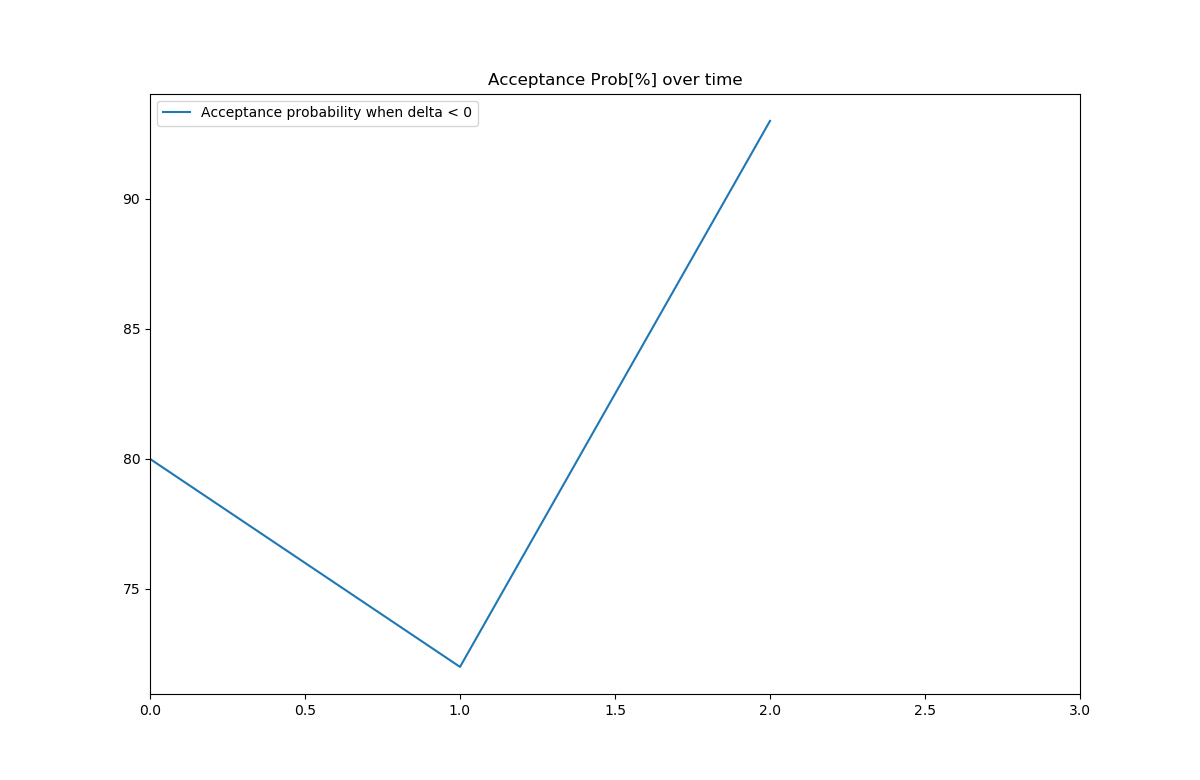
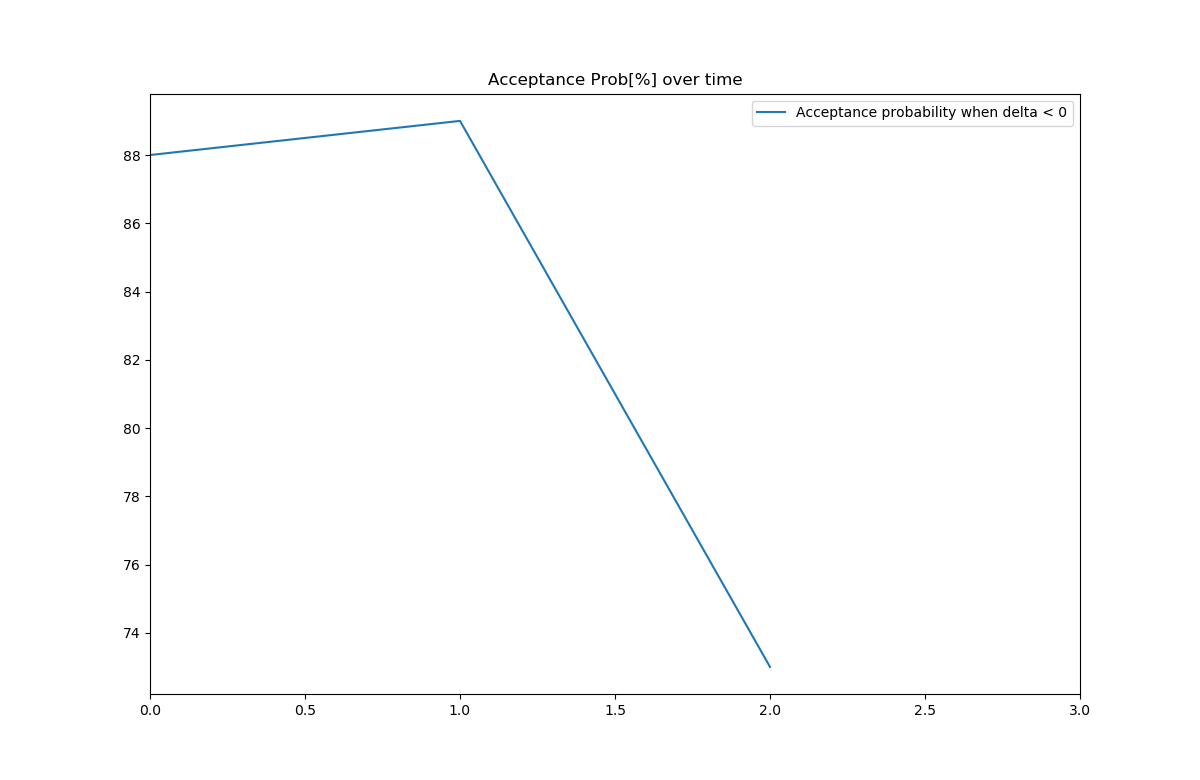
todo: retarget shader

diff --git a/Falcor-3.2.1/Bachelor/RayTracer/PathTracer/PathTracer.cpp b/Falcor-3.2.1/Bachelor/RayTracer/PathTracer/PathTracer.cpp
@@ -84,8 +84,6 @@ void PathTracer::toggleCameraPathState()
 void PathTracer::onLoad(SampleCallbacks* pCallbacks, RenderContext* pRenderContext)
 {
     mpGraph = RenderGraph::create("Path Tracer");
-    //for retarget seeds before rendering frame!
-    mpGraph->addPass(Retargeting::create(), "Retargeting");
 
     mpGraph->addPass(GBufferRaster::create(), "GBuffer");
     auto pGIPass = GGXGlobalIllumination::create();
@@ -93,14 +91,15 @@ void PathTracer::onLoad(SampleCallbacks* pCallbacks, RenderContext* pRenderConte
 
     //make improvements by sorting frames after rendering
     mpGraph->addPass(Sorting::create(), "Sorting");
+    //for retarget seeds before rendering frame!
+    mpGraph->addPass(Retargeting::create(), "Retargeting");
 
-    mpGraph->addEdge("GBuffer", "Retargeting");
-    mpGraph->addEdge("Retargeting", "GlobalIllumination");
+    mpGraph->addEdge("GBuffer", "GlobalIllumination");
     //improvements in sorting happens after rendering frame
     mpGraph->addEdge("GlobalIllumination", "Sorting");
 
     //bevor render now retarget seeds to accumulate improvements
-    mpGraph->addEdge("Retargeting.output_seed", "GlobalIllumination.input_seed");
+    //mpGraph->addEdge("Sorting.output_seed", "GlobalIllumination.input_seed");
 
     mpGraph->addEdge("GBuffer.posW", "GlobalIllumination.posW");
     mpGraph->addEdge("GBuffer.normW", "GlobalIllumination.normW");
@@ -111,7 +110,7 @@ void PathTracer::onLoad(SampleCallbacks* pCallbacks, RenderContext* pRenderConte
 
     //add edges for marking dependencies!!
 
-    //mpGraph->addEdge("Sorting","Retargeting");
+    mpGraph->addEdge("Sorting","Retargeting");
 
     //Edges for our temporal algorithm
 
@@ -121,10 +120,10 @@ void PathTracer::onLoad(SampleCallbacks* pCallbacks, RenderContext* pRenderConte
     mpGraph->addEdge("GlobalIllumination.output_seed","Sorting.input_seed");
 
     //edges for our retargeting pass
-    //mpGraph->addEdge("Sorting.seed_output","Retargeting.input_seed");
+    mpGraph->addEdge("Sorting.output_seed","Retargeting.input_seed");
 
     mpGraph->markOutput("GlobalIllumination.output");
-    mpGraph->markOutput("Sorting.output_seed");
+    mpGraph->markOutput("Retargeting.output_seed");
     //mpGraph->markOutput("Retargeting.output_seed");
 
     // Initialize the graph's record of what the swapchain size is, for texture creation
@@ -161,7 +160,7 @@ void PathTracer::onFrameRender(SampleCallbacks* pCallbacks, RenderContext* pRend
         this->trace_count = 0;
         Texture::SharedPtr seed_texture = createTextureFromFile("seeds_RGBA.png", false, false,Resource::BindFlags::ShaderResource | Resource::BindFlags::UnorderedAccess |
                                                                                                                                             Resource::BindFlags::RenderTarget);
-        mpGraph->setInput("Retargeting.input_seed", seed_texture);
+        mpGraph->setInput("GlobalIllumination.input_seed", seed_texture);
         //mpGraph->setInput("GlobalIllumination.seed_input", seed_texture);
         //just do nothing; we will load starting seed texture in globalillumination pass 
         hasrunonce = true;
@@ -171,7 +170,7 @@ void PathTracer::onFrameRender(SampleCallbacks* pCallbacks, RenderContext* pRend
         //enable this llop for saving the very first 10 screenshots!!!
         /**if (this->trace_count <= 10) {
             std::stringstream ss;
-            ss << "frame_t_bluenosie" << this->trace_count;
+            ss << "frame_t_bluenosie_with_retargeting" << this->trace_count;
             std::string filename = ss.str();
             pCallbacks->captureScreen(filename, "Screenshots");
             trace_count++;
@@ -181,8 +180,8 @@ void PathTracer::onFrameRender(SampleCallbacks* pCallbacks, RenderContext* pRend
         //Resource::SharedPtr retarget_seeds = mpGraph->getOutput("Retargeting.output_seed");
         //mpGraph->setInput("GlobalIllumination.seed_input", retarget_seeds);
 
-        Resource::SharedPtr retarget_seeds = mpGraph->getOutput("Sorting.output_seed");
-        mpGraph->setInput("Retargeting.input_seed", retarget_seeds);
+        Resource::SharedPtr retarget_seeds = mpGraph->getOutput("Retargeting.output_seed");
+        mpGraph->setInput("GlobalIllumination.input_seed", retarget_seeds);
 
     }
 
@@ -190,8 +189,8 @@ void PathTracer::onFrameRender(SampleCallbacks* pCallbacks, RenderContext* pRend
     {
         mpGraph->getScene()->update(pCallbacks->getCurrentTime(), &mCamController);
         mpGraph->execute(pRenderContext);
-        pRenderContext->blit(mpGraph->getOutput("GlobalIllumination.output")->getSRV(), pTargetFbo->getRenderTargetView(0));
-        //pRenderContext->blit(mpGraph->getOutput("Retargeting.output_seed")->getSRV(), pTargetFbo->getRenderTargetView(0));
+        //pRenderContext->blit(mpGraph->getOutput("GlobalIllumination.output")->getSRV(), pTargetFbo->getRenderTargetView(0));
+        pRenderContext->blit(mpGraph->getOutput("Retargeting.output_seed")->getSRV(), pTargetFbo->getRenderTargetView(0));
     }
 }
 

diff --git a/Falcor-3.2.1/Bachelor/RayTracer/PathTracer/RenderPasses/Retargeting.cpp b/Falcor-3.2.1/Bachelor/RayTracer/PathTracer/RenderPasses/Retargeting.cpp
@@ -58,10 +58,11 @@ void Retargeting::initialize(RenderContext * pContext, const RenderData * pRende
     mpComputeProgVars = ComputeVars::create(mpComputeProg->getReflector());
 
     //textures for retargeting
-
-    Texture::SharedPtr retarget = createTextureFromFile("permutation_texture_236413_swapsKirkpatrickCooldownSchedule.png", false, false, Resource::BindFlags::ShaderResource
+    //30
+    Texture::SharedPtr retarget = createTextureFromFile("permutation_texture_238866_swapsKirkpatrickCooldownSchedule.png", false, false, Resource::BindFlags::ShaderResource
                                                                                                                                                                                                                                             | /*Resource::BindFlags::UnorderedAccess|*/
-                                                                                                                                                                                                                                               Resource::BindFlags::RenderTarget);
+                                                                                                                                                                                                                                                   Resource::BindFlags::RenderTarget);
+    
     mpComputeProgVars->setTexture("retarget_texture", retarget);
 
     //info for the frame
@@ -95,7 +96,7 @@ void Retargeting::execute(RenderContext* pContext, const RenderData* pData) {
     mpComputeProgVars->getStructuredBuffer("data")[0]["tile_height"] = tile_height;
     mpComputeProgVars->getStructuredBuffer("data")[0]["frame_width"] = frame_width;
     mpComputeProgVars->getStructuredBuffer("data")[0]["frame_height"] = frame_height;
-    mpComputeProgVars->getStructuredBuffer("data")[0]["frame_count"] = frame_count;
+    mpComputeProgVars->getStructuredBuffer("data")[0]["frame_count"] = frame_count++;
     mpComputeProgVars->getStructuredBuffer("data")[0]["enable"] = this->enable_retarget_pass_shader_var;
 
     mpComputeProgVars->setTexture("src_seed_texture", pData->getTexture("input_seed"));
@@ -118,7 +119,7 @@ void Retargeting::execute(RenderContext* pContext, const RenderData* pData) {
         pContext->copyResource(pData->getTexture("output_seed").get(), copyForUnsorted.get());
 
     }*/
-    //pContext->copyResource(pData->getTexture("output_seed").get(), mpComputeProgVars->getTexture("output_seed_texture").get());
+    pContext->copyResource(pData->getTexture("output_seed").get(), mpComputeProgVars->getTexture("output_seed_texture").get());
 }
 
 void Retargeting::renderUI(Gui* pGui, const char* uiGroup) {

diff --git a/Retargeting/Retargeting/helpers.cpp b/Retargeting/Retargeting/helpers.cpp
@@ -151,12 +151,12 @@ bool helpers::fromPermuteToBitmap(Image image_data, FIBITMAP* bitmap, const uint
 	for (unsigned int i = 0; i < image_width; i++) {
 
 		for (unsigned int j = 0; j < image_height; j++) {
-
-			color.rgbRed = image_data[i][image_height - 1 - j][0] + 6;
-			color.rgbGreen = image_data[i][image_height - 1 - j][1] + 6;
+			float max_step_res_ratio = 255.f / 12.f;
+			color.rgbRed = (BYTE)(image_data[i][image_height - 1 - j][0] + 6) * max_step_res_ratio;
+			color.rgbGreen =(BYTE)(image_data[i][image_height - 1 - j][1] + 6) * max_step_res_ratio;
 			//to store permutation we will only need to save in rg - channel !!
-			color.rgbBlue = 0xFF;
-			color.rgbReserved = i;
+			color.rgbBlue = 0x00;
+			color.rgbReserved = 0xFF;
 
 			if (FreeImage_SetPixelColor(bitmap, i, j, &color) == 0) {
 

diff --git a/Falcor-3.2.1/Bachelor/RayTracer/PathTracer/RenderPasses/Sorting.cpp b/Falcor-3.2.1/Bachelor/RayTracer/PathTracer/RenderPasses/Sorting.cpp
@@ -97,7 +97,7 @@ void Sorting::execute(RenderContext* pContext, const RenderData* pData) {
     mpComputeProgVars->getStructuredBuffer("data")[0]["tile_height"] = tile_height;
     mpComputeProgVars->getStructuredBuffer("data")[0]["frame_width"] = frame_width;
     mpComputeProgVars->getStructuredBuffer("data")[0]["frame_height"] = frame_height;
-    mpComputeProgVars->getStructuredBuffer("data")[0]["frame_count"] = frame_count;
+    mpComputeProgVars->getStructuredBuffer("data")[0]["frame_count"] = frame_count++;
 
     mpComputeProgVars->setTexture("input_frame_texture", pData->getTexture("input_frame"));
     mpComputeProgVars->setTexture("input_seed_texture", pData->getTexture("input_seed"));

diff --git a/Retargeting/Retargeting/SimulatedAnnealingTest.cpp b/Retargeting/Retargeting/SimulatedAnnealingTest.cpp
@@ -7,7 +7,7 @@ SimulatedAnnealingTest::SimulatedAnnealingTest() : helper(), number_steps(10000)
 }
 
 
-SimulatedAnnealingTest::SimulatedAnnealingTest(const char* filename, int image_width, int image_height) : number_steps(1000000) {
+SimulatedAnnealingTest::SimulatedAnnealingTest(const char* filename, int image_width, int image_height) : number_steps(2000000) {
 	
 	this->helper = helpers(filename, image_width, image_height);
 	//this->schedule = new ExponentialCoolDown();

diff --git a/Falcor-3.2.1/Bachelor/RayTracer/PathTracer/RenderPasses/Sorting.h b/Falcor-3.2.1/Bachelor/RayTracer/PathTracer/RenderPasses/Sorting.h
@@ -17,7 +17,7 @@ public:
     bool sortingEnabled = true;
 
     //frame infos
-    uint32_t frame_count = 2;
+    uint32_t frame_count = 0;
     uint32_t tile_width = 64;
     uint32_t tile_height = 64;
     uint32_t frame_width = 1920;
